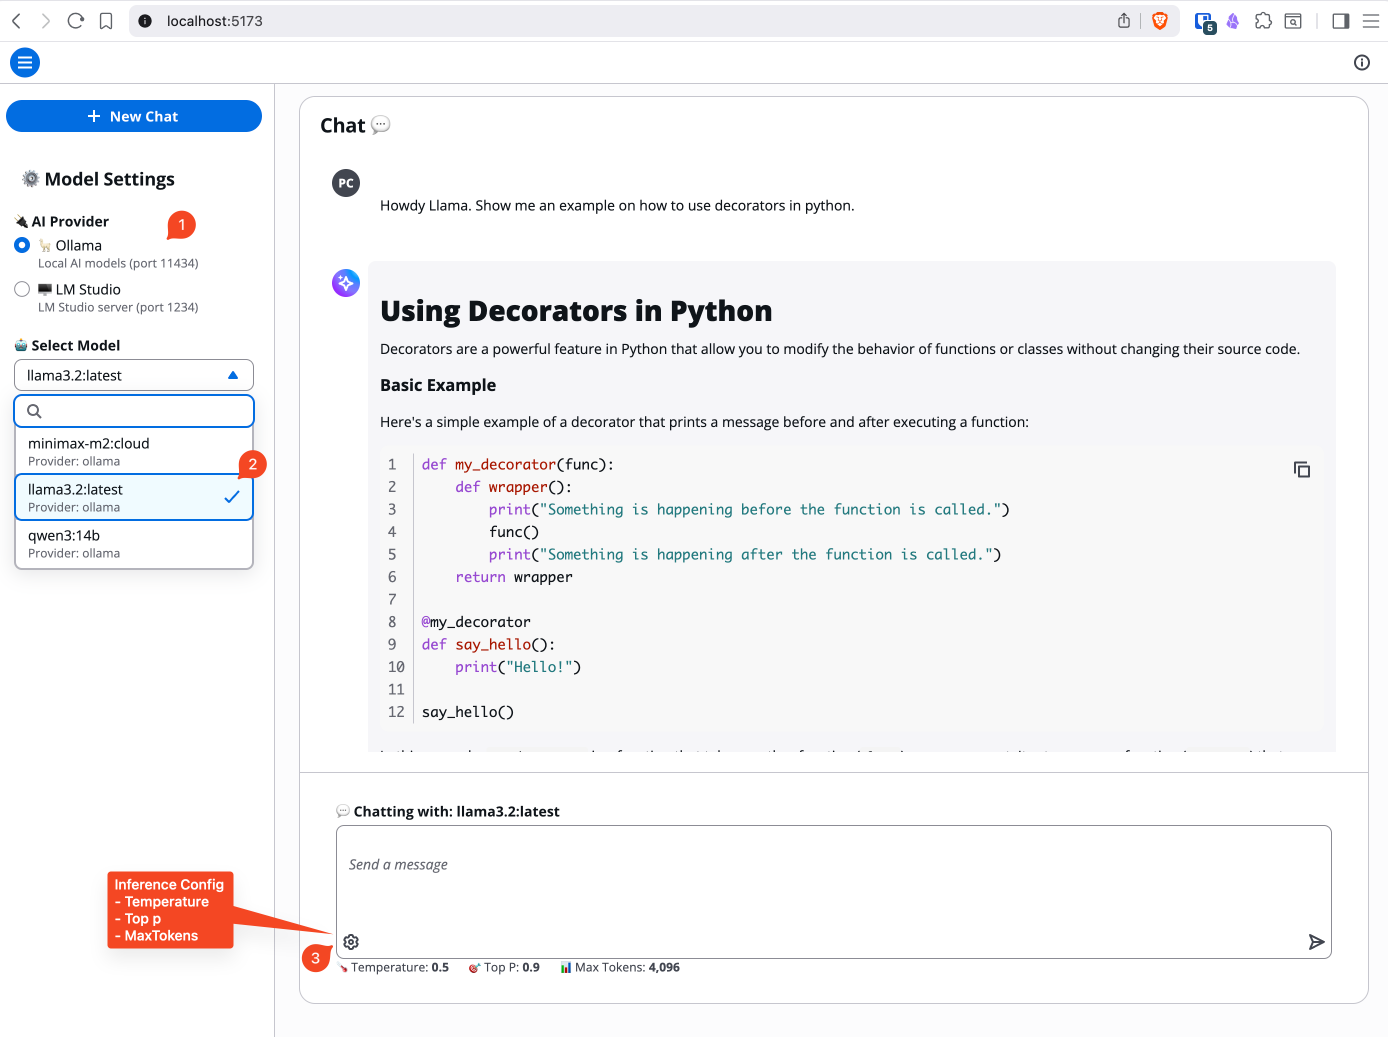
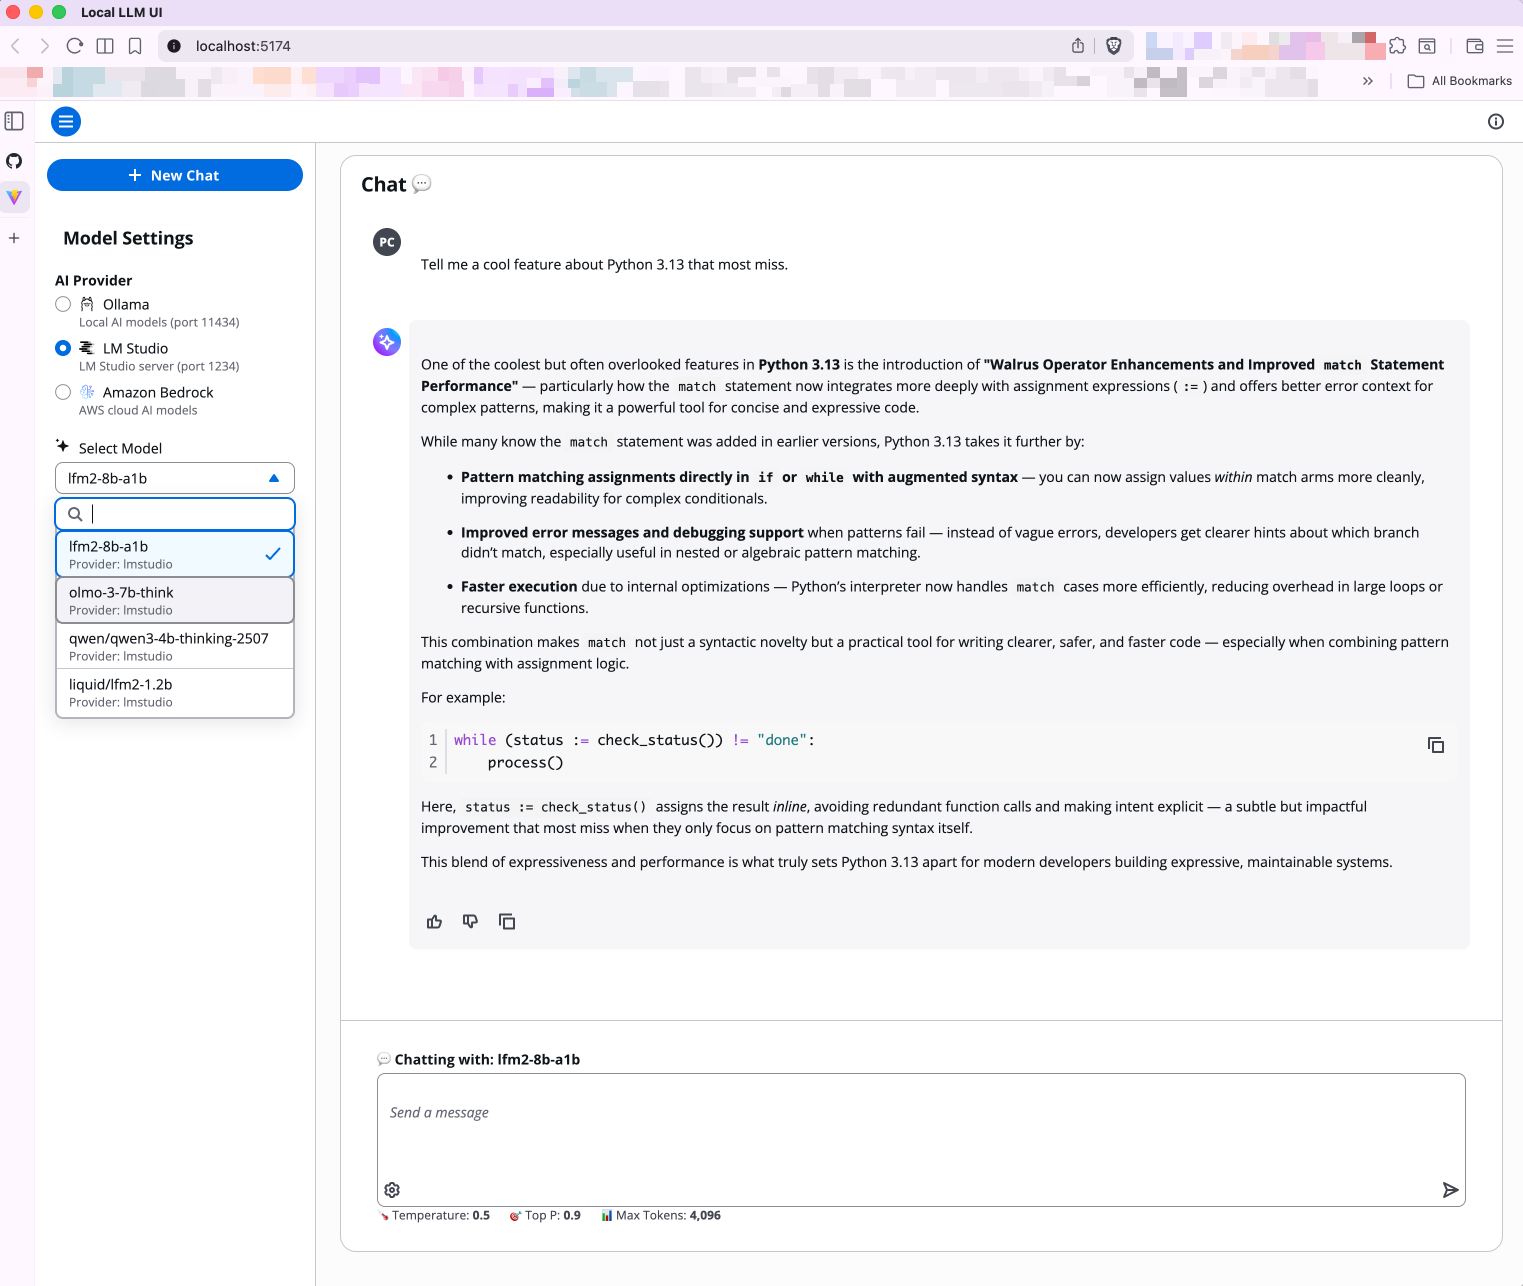
docs(readme): add Amazon Bedrock documentation and update screenshot
- Document Bedrock setup with AWS credentials configuration
- Add Bedrock-specific features (document upload, usage metrics)
- Update troubleshooting and project structure sections
- Include updated UI screenshot showing latest changes

diff --git a/README.md b/README.md
@@ -6,16 +6,19 @@
 [![Vite](https://img.shields.io/badge/Vite-7-646cff.svg)](https://vitejs.dev/)
 [![PRs Welcome](https://img.shields.io/badge/PRs-welcome-brightgreen.svg)](CONTRIBUTING.md)
 
-A modern, responsive UI for interacting with local Large Language Models (LLMs). Built with React, TypeScript, Vite, and AWS Cloudscape Design System, this application provides a beautiful interface for chatting with local AI models through Ollama, LM Studio, and other providers.
+A modern, responsive UI for interacting with Large Language Models (LLMs). Built with React, TypeScript, Vite, and AWS Cloudscape Design System, this application provides a beautiful interface for chatting with AI models through Ollama, LM Studio, and Amazon Bedrock.
 
 ![Local LLM UI Screenshot](.github/images/local-llm-ui-ex1.png)
 
 ## Features
 
 - **Modern UI**: Built with AWS Cloudscape Design System for a professional, accessible interface
-- **Multiple AI Providers**: Support for Ollama and LM Studio
+- **Multiple AI Providers**: Support for Ollama, LM Studio, and Amazon Bedrock
 - **Real-time Streaming**: Stream responses from AI models in real-time
 - **Model Configuration**: Adjust temperature, top-p, and max tokens for fine-tuned responses
+- **Visual Provider Indicators**: Clear icons showing which AI provider is active
+- **Document Upload**: Upload documents (PDF, TXT, HTML, MD, CSV, DOC, DOCX, XLS, XLSX) with Bedrock models
+- **Usage Metrics**: View token usage and latency for Bedrock requests
 - **Chat History**: Manage multiple chat sessions with automatic history tracking *(Coming soon)*
 - **Responsive Design**: Works seamlessly across desktop and mobile devices
 - **Dark/Light Mode**: Automatic theme support through Cloudscape
@@ -29,6 +32,7 @@ Before running this application, ensure you have the following installed:
 - **AI Provider** (at least one):
   - [Ollama](https://ollama.ai) - Local AI models (recommended)
   - [LM Studio](https://lmstudio.ai) - Alternative local AI platform
+  - [Amazon Bedrock](https://aws.amazon.com/bedrock/) - AWS cloud AI service (requires AWS credentials)
 
 ## Installation
 
@@ -85,6 +89,44 @@ Before running this application, ensure you have the following installed:
    - Go to Developer → Server Settings
    - Enable "JIT Loading" to load models on-demand
 
+### Option 3: Amazon Bedrock
+
+1. **Set up AWS credentials** using one of these methods:
+
+   **Option A: Environment Variables**
+   ```bash
+   export AWS_ACCESS_KEY_ID=your_access_key_id
+   export AWS_SECRET_ACCESS_KEY=your_secret_access_key
+   export AWS_REGION=us-west-2  # or your preferred region
+   ```
+
+   **Option B: AWS CLI**
+   ```bash
+   aws configure
+   ```
+
+   **Option C: AWS Credentials File**
+   Create `~/.aws/credentials`:
+   ```ini
+   [default]
+   aws_access_key_id = your_access_key_id
+   aws_secret_access_key = your_secret_access_key
+   ```
+
+2. **Ensure IAM Permissions**: Your AWS user/role needs these permissions:
+   - `bedrock:ListInferenceProfiles`
+   - `bedrock:InvokeModel` or `bedrock:InvokeModelWithResponseStream`
+
+3. **Request Model Access** (if needed):
+   - Go to AWS Bedrock console
+   - Navigate to "Model access"
+   - Request access to desired models (e.g., Claude, Llama)
+
+4. **Verify Setup**:
+   ```bash
+   aws bedrock list-foundation-models --region us-west-2
+   ```
+
 ## Running the Application
 
 ### Development Mode
@@ -119,7 +161,7 @@ npm run preview
 
 2. **Select AI Provider**:
    - Open the sidebar (Model Settings)
-   - Choose between Ollama or LM Studio
+   - Choose between Ollama, LM Studio, or Amazon Bedrock
    - The app will automatically detect available models
 
 3. **Select a Model**:
@@ -152,6 +194,26 @@ Adjust model parameters in the expandable settings panel:
 - **New Chat**: Click the "New Chat" button in the sidebar to start fresh
 - **Clear History**: Clears the current conversation while keeping the session
 
+### Document Upload (Bedrock Only)
+
+When using Amazon Bedrock models, you can upload documents:
+
+1. Click the attachment icon in the chat input
+2. Select up to 5 files (max 4.5 MB each)
+3. Supported formats: PDF, TXT, HTML, MD, CSV, DOC, DOCX, XLS, XLSX
+4. Send your message with the attached documents
+5. The AI will analyze and respond based on the document content
+
+### Usage Metrics (Bedrock Only)
+
+For Bedrock models, view detailed usage metrics:
+- **Input Tokens**: Tokens in your prompt
+- **Output Tokens**: Tokens in the AI response
+- **Total Tokens**: Combined token count
+- **Latency**: Response time in milliseconds
+
+Metrics appear in an expandable section below the chat input.
+
 ## Project Structure
 
 ```text
@@ -171,10 +233,12 @@ local-llm-ui/
 │   │   ├── api.ts             # API service orchestrator
 │   │   ├── ollama.ts          # Ollama integration
 │   │   ├── lmstudio.ts        # LM Studio integration
+│   │   ├── bedrock.ts         # Amazon Bedrock integration
 │   │   └── types.ts           # TypeScript types
 │   ├── utils/                 # Utility functions
 │   └── main.tsx               # Application entry point
-├── server/                    # Server-side code (disabled)
+├── server/
+│   └── bedrock-proxy.ts       # Bedrock proxy server
 ├── public/                    # Static assets
 ├── vite.config.ts             # Vite configuration
 └── package.json               # Dependencies and scripts
@@ -192,16 +256,22 @@ VITE_OLLAMA_URL=http://localhost:11434
 
 # Optional: Custom LM Studio URL
 VITE_LMSTUDIO_URL=http://localhost:1234
+
+# Optional: AWS Configuration (if not using AWS CLI or credentials file)
+AWS_ACCESS_KEY_ID=your_access_key_id
+AWS_SECRET_ACCESS_KEY=your_secret_access_key
+AWS_REGION=us-west-2
 ```
 
 ### Proxy Configuration
 
-The Vite development server proxies requests to local AI services:
+The Vite development server proxies requests to AI services:
 
 - `/api/ollama` → `http://localhost:11434`
 - `/api/lmstudio` → `http://localhost:1234`
+- `/api/bedrock` → Handled by server-side proxy (AWS SDK)
 
-This configuration is in `vite.config.ts` and handles CORS automatically.
+This configuration is in `vite.config.ts` and handles CORS automatically. The Bedrock proxy runs server-side to securely handle AWS credentials.
 
 ## Troubleshooting
 
@@ -212,7 +282,7 @@ This configuration is in `vite.config.ts` and handles CORS automatically.
 **Solutions**:
 
 - **Ollama**: Ensure Ollama is running and you've pulled at least one model
-  
+
   ```bash
   ollama list
   ollama pull llama2
@@ -220,16 +290,21 @@ This configuration is in `vite.config.ts` and handles CORS automatically.
 
 - **LM Studio**: Ensure the server is running and a model is loaded or JIT Loading is enabled
 
+- **Amazon Bedrock**: Verify AWS credentials are configured and you have model access
+
 ### Connection Failed
 
 **Problem**: "Cannot connect" error messages
 
 **Solutions**:
 
-- Verify the AI service is running on the correct port
-- Check firewall settings
-- Ensure no other application is using the port
-- Restart the AI service
+- **Ollama/LM Studio**: Verify the AI service is running on the correct port
+- **Ollama/LM Studio**: Check firewall settings
+- **Ollama/LM Studio**: Ensure no other application is using the port
+- **Ollama/LM Studio**: Restart the AI service
+- **Bedrock**: Verify AWS credentials are configured correctly
+- **Bedrock**: Check IAM permissions for Bedrock access
+- **Bedrock**: Ensure you have requested model access in AWS console
 
 ### Slow Responses
 
@@ -264,7 +339,7 @@ This project uses:
 1. Follow the existing component structure
 2. Use Cloudscape components for consistency
 3. Maintain TypeScript types
-4. Test with both Ollama and LM Studio
+4. Test with Ollama, LM Studio, and Bedrock (if applicable)
 
 ## Screenshots
 
@@ -287,6 +362,7 @@ This project uses:
 - **TypeScript**: Type safety
 - **Vite**: Build tool and dev server
 - **Cloudscape Design System**: AWS UI component library
+- **AWS SDK**: Bedrock integration (@aws-sdk/client-bedrock, @aws-sdk/client-bedrock-runtime)
 - **React Markdown**: Markdown rendering in chat
 
 ## License
@@ -305,5 +381,5 @@ For issues or questions:
 ## Acknowledgments
 
 - UI built with [AWS Cloudscape Design System](https://cloudscape.design/)
-- Supports [Ollama](https://ollama.ai) and [LM Studio](https://lmstudio.ai)
+- Supports [Ollama](https://ollama.ai), [LM Studio](https://lmstudio.ai), and [Amazon Bedrock](https://aws.amazon.com/bedrock/)
 - Powered by [Vite](https://vitejs.dev/) and [React](https://react.dev/)
